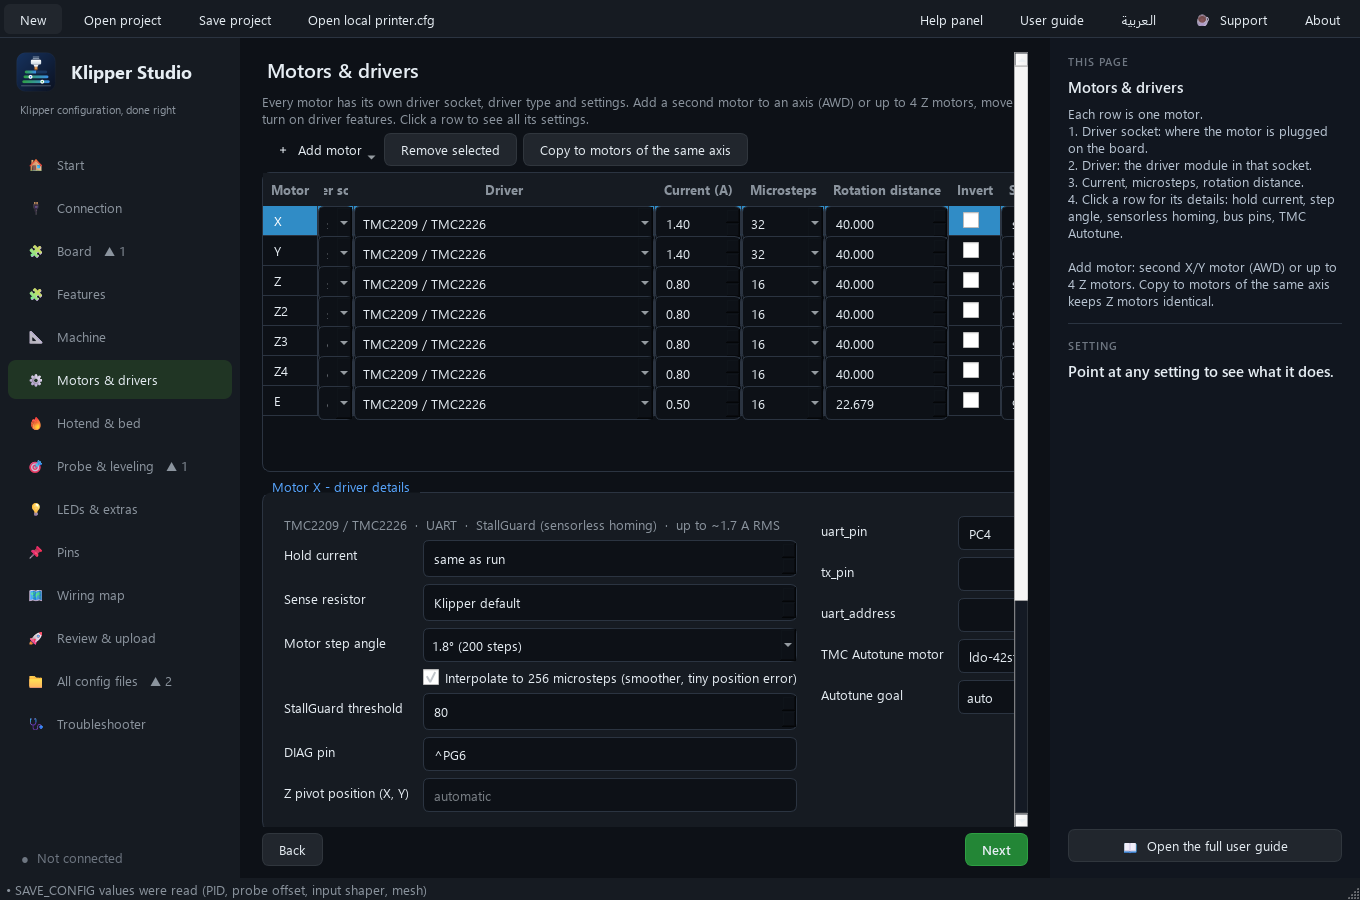
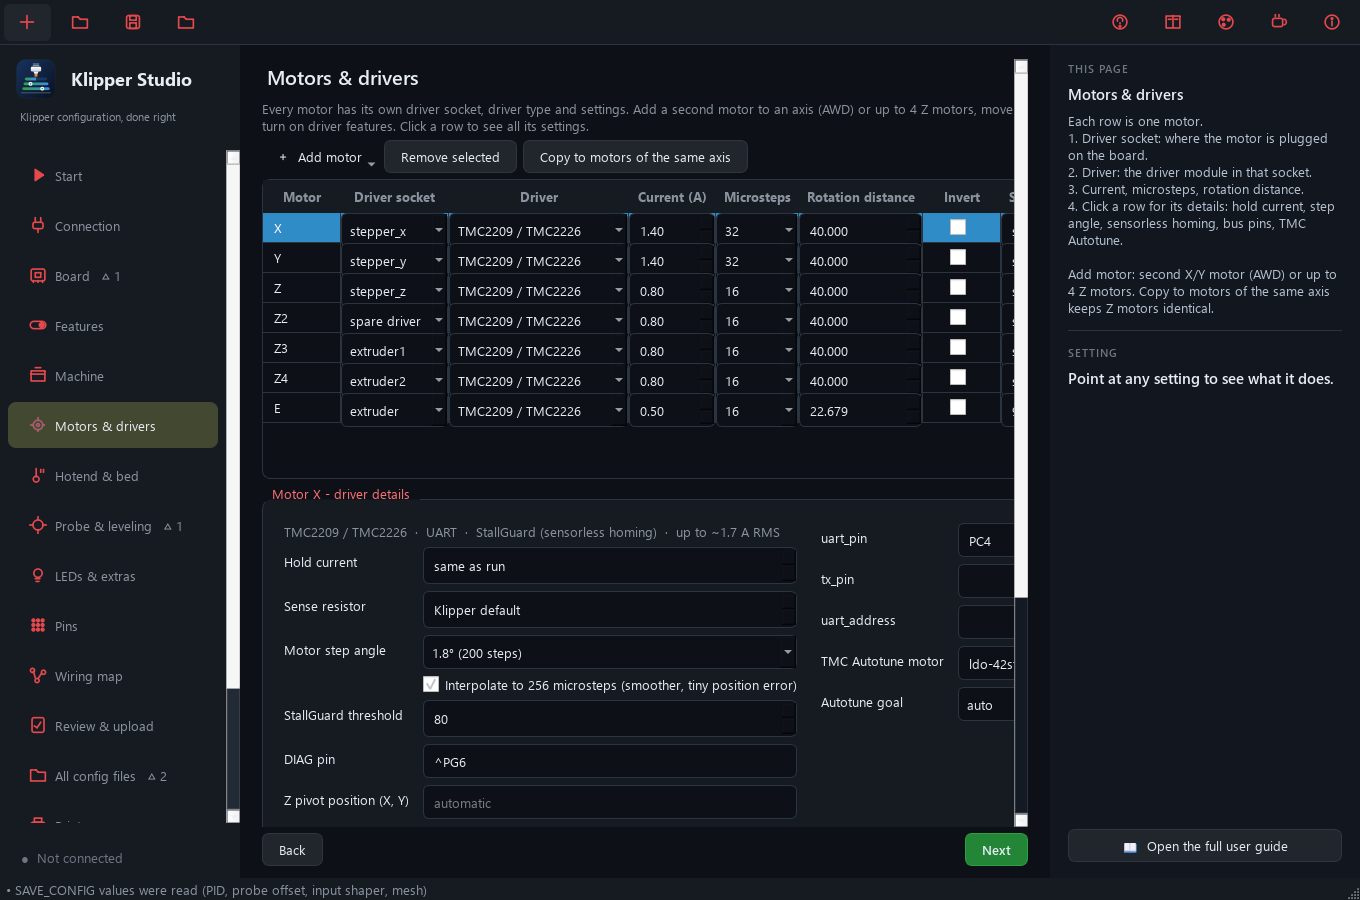
Beta 5: version, changelog, docs, screenshots and demo (#10)
* Beta 5: version, changelog, regenerated guide and screenshots

* Beta 5: Printers screenshot, re-recorded demo with the new theme and the GPL end card

* Keep the screenshot tool's scratch settings out of the repo

diff --git a/tools/demo_video.py b/tools/demo_video.py
@@ -82,9 +82,10 @@ AR = {
     "Uploading is the careful part": "الرفع هو الجزء اللي محتاج حرص",
     "Refused while printing, backed up on the printer and on your PC, FIRMWARE_RESTART, one-click restore.":
         "مرفوض أثناء الطباعة، نسخة احتياطية على الطابعة وعلى جهازك، FIRMWARE_RESTART، واسترجاع بضغطة واحدة.",
-    "Free for personal use": "مجاني للاستخدام الشخصي",
+    "Tested on a real printer": "مجرّب على طابعة حقيقية",
+    "Free software  ·  GPL-3.0": "برنامج حر  ·  GPL-3.0",
     "Windows: download KlipperStudio.exe and double-click": "ويندوز: نزّل KlipperStudio.exe ودوس عليه دبل كليك",
-    "English and Arabic": "بالعربي والإنجليزي",
+    "English and Arabic": "بالإنجليزي",
 }
 
 
@@ -364,8 +365,8 @@ def script(r, win, app):
            sub="Refused while printing, backed up on the printer and on your PC, FIRMWARE_RESTART, one-click restore.",
            seconds=3.4, do=upload, move_to=r.at(win.tabs, 0.5, 0.9))
 
-    r.card("Free for personal use", [REPO_URL, "Windows: download KlipperStudio.exe and double-click",
-                                     "", "%s  ·  %s" % (r.t("English and Arabic"), __version__)], logo=True, seconds=4.0)
+    r.card("Free software  ·  GPL-3.0", [REPO_URL, "Windows: download KlipperStudio.exe and double-click",
+                                     "", "%s  ·  %s" % (r.t("Tested on a real printer"), __version__)], logo=True, seconds=4.0)
 
 
 def encode(gif=False, fps=FPS, suffix=""):

diff --git a/tools/screenshots.py b/tools/screenshots.py
@@ -47,6 +47,14 @@ def main(lang="en"):
     shots = {"page_start": "start", "page_board": "board", "page_features": "features", "page_probe": "probe",
              "page_preview": "review", "page_files": "files"}
 
+    # a small fleet so the Printers page has something to show
+    from studio import printers as _PR
+    _PR.save_printers([_PR.new_printer("Voron 2.4", "192.168.1.21"),
+                       _PR.new_printer("Ender 3 - shelf", "192.168.1.22", remote_path="shelf"),
+                       _PR.new_printer("Test bench", "192.168.1.23", port=7126, ssh_port=2222)])
+    win.fleet = _PR.load_printers()
+    win._fill_printers()
+
     def shot(builder, name):
         win.goto_page(builder)
         if builder == "page_preview":
@@ -98,6 +106,7 @@ def main(lang="en"):
     img.save(path)
     print(path)
 
+    shot("page_printers", "printers")
     win._doctor_show("MCU 'mcu' shutdown: Timer too close\n"
                      "Unable to read tmc uart 'stepper_x' register IFCNT", "klippy.log")
     shot("page_doctor", "doctor")

diff --git a/studio/__init__.py b/studio/__init__.py
@@ -4,7 +4,7 @@ import os
 import sys
 
 APP_NAME = "ATGENX Klipper Studio"
-__version__ = "1.0.0-beta.4"
+__version__ = "1.0.0-beta.5"
 LICENSE_NAME = "GNU GPL v3.0 or later"
 REPO_URL = "https://github.com/ARDUTECH0/ATGENX-Klipper-Studio"
 SUPPORT_URL = "https://buymeacoffee.com/seifemadatv"

diff --git a/CHANGELOG.md b/CHANGELOG.md
@@ -1,11 +1,51 @@
 # Changelog
 
-## Unreleased
+## 1.0.0-beta.5 - 2026-09-18
+
+**Tested on a real printer for the first time** - an SKR 1.4 Turbo running Klipper v0.13.0, backed up first:
+28 checks, none failed. Importing the real 52 KB `printer.cfg` with its includes and `SAVE_CONFIG` rewrote
+**0 lines** when nothing was edited, and all 52 macros and 3,962 comments survived untouched. A real upload
+made its backup on the printer, ran `FIRMWARE_RESTART`, waited for Klipper to come back, and left the file
+byte-identical. A gcode file went up at 1.4 MB/s with live progress and was skipped on the second run.
 
 ### License
-- The project is now **GNU GPL v3.0 or later**, replacing PolyForm Noncommercial. It is free
-  software: use it, change it, share it, sell it - as long as what you pass on stays GPL with
-  its source. This is what was promised to the community when they asked.
+- The project is now **GNU GPL v3.0 or later**, replacing PolyForm Noncommercial. Free software: use it,
+  study it, change it, share it, sell it - as long as what you pass on stays GPL and ships its source.
+  No warranty.
+
+### Printers (new page)
+- Add, edit, remove and reorder your machines. Each one can override the Moonraker port, the SSH port, the
+  API key and the folder its files go into.
+- **Send the same files to every printer at once**, one thread each, with a progress bar, transfer speed and
+  time left per printer, and a colour-coded log of what happened.
+- **Dry run** connects, compares every file and reports what it would send, replace or skip - and writes nothing.
+- Files already on the printer with the same size are skipped, unless you turn that off.
+- **A file that is printing, or waiting in Moonraker's queue, is never overwritten and never deleted.** It is
+  skipped and listed for you to handle yourself.
+
+### Printer files (new page)
+- Browse what is on a printer: folders, sizes, and the thumbnail the slicer embedded in each gcode, pulled
+  from `.thumbs/`. Hover a file to see it bigger.
+- Select several files - or a whole folder - and delete them in one go, with the protected ones refused.
+
+### Look
+- One **accent colour** drives the whole window, with six presets and a colour picker. The default is red.
+- **Every emoji is gone.** The sidebar and toolbar icons are drawn in code, so they follow the accent colour
+  and look the same on every machine, with nothing extra to ship.
+
+### English only
+- The language switch has been removed and the app starts in English. The Arabic strings are still in the
+  code and can be reached with `python -m studio --lang ar`.
+
+### Fixes
+- The wiring map no longer reports a problem for a section that is switched off: a commented-out `[adxl345]`
+  pointing at a commented-out `[mcu pico]` is correct, not an error. Found on a real printer.
+- **Fit to window** centres on the diagram instead of the origin, so devices are no longer cut off.
+- The motors table no longer truncates the driver socket column.
+
+### Testing
+- 55 unit tests and 56 end-to-end checks against a fake Moonraker, plus the live run above.
+- `tests/test_fleet.py` covers the printer list, the sync engine, dry run, and the print-safety rules.
 
 ## 1.0.0-beta.4 - 2026-09-17
 

diff --git a/docs/GUIDE.md b/docs/GUIDE.md
@@ -1,6 +1,6 @@
 # Klipper Studio - User guide
 
-This guide explains every page and every setting of Klipper Studio 1.0.0-beta.4, and walks through the most common tasks. The same explanations appear inside the app in the help panel on the right - point at any setting to read them.
+This guide explains every page and every setting of Klipper Studio 1.0.0-beta.5, and walks through the most common tasks. The same explanations appear inside the app in the help panel on the right - point at any setting to read them.
 
 ## Contents
 
@@ -287,6 +287,26 @@ Smart merge keeps your file and changes only what's needed. Clean new file rewri
 ### All config files
 
 All files of the printer. Click a file or a section in the tree, edit, then Save to printer. A backup is made first and only the matching service restarts (Klipper for .cfg, Moonraker for moonraker.conf...).
+
+### Printers
+
+Your printers, and sending the same files to all of them at once.  
+1. Add printer: name, address, and - if they are not the usual ones - the Moonraker port, the SSH port and the folder its files go into.  
+2. Tick the printers you want, add files or a whole folder, and press Sync.  
+3. Each printer gets its own progress bar with speed and time left, and the log says what happened.  
+  
+Dry run does everything except write. A file that is printing or waiting in the queue is never overwritten - it is skipped and listed for you.
+
+| Setting | What it does | In printer.cfg |
+|---|---|---|
+| **fleet.dry_run** | Runs the whole sync without writing anything: it connects, compares every file and tells you what it would send, replace or skip. Use it the first time you point the app at a printer you care about. |  |
+| **fleet.skip_same** | A file already on the printer with exactly the same size is left alone. Turn this off to send everything again, for example after re-slicing with the same file names. |  |
+
+### Printer files
+
+What is on a printer right now. Double-click a folder to open it, hover a file to see the thumbnail the slicer put in it, and select files to delete them.  
+  
+Anything printing or queued is marked and cannot be deleted.
 
 ### Troubleshooter
 

diff --git a/docs/GUIDE.ar.md b/docs/GUIDE.ar.md
@@ -2,7 +2,7 @@
 
 # Klipper Studio - دليل الاستخدام
 
-الدليل ده بيشرح كل صفحة وكل إعداد في Klipper Studio 1.0.0-beta.4، وبيمشي معاك خطوة بخطوة في أشهر المهام. نفس الشرح موجود جوه البرنامج في لوحة الشرح على اليمين - قف بالماوس على أي إعداد عشان تقراه.
+الدليل ده بيشرح كل صفحة وكل إعداد في Klipper Studio 1.0.0-beta.5، وبيمشي معاك خطوة بخطوة في أشهر المهام. نفس الشرح موجود جوه البرنامج في لوحة الشرح على اليمين - قف بالماوس على أي إعداد عشان تقراه.
 
 ## المحتويات
 
@@ -289,6 +289,19 @@ python -m studio --lang ar
 ### كل ملفات الإعداد
 
 كل ملفات الطابعة. اضغط على ملف أو قسم في الشجرة، عدّل، وبعدين «حفظ على الطابعة». بيتعمل نسخة احتياطية الأول وبيتعمل إعادة تشغيل للخدمة المناسبة بس (كليبر لملفات .cfg، و Moonraker لـ moonraker.conf...).
+
+### Printers
+
+طابعاتك، وإرسال نفس الملفات لكلها في نفس الوقت. جرب Dry run الأول.
+
+| الإعداد | بيعمل إيه | في printer.cfg |
+|---|---|---|
+| **fleet.dry_run** | بيشغل العملية كلها من غير ما يكتب حاجة: بيتصل ويقارن كل ملف ويقولك هيبعت إيه. |  |
+| **fleet.skip_same** | الملف الموجود على الطابعة بنفس الحجم بيتساب زي ما هو. اقفلها عشان يبعت كل حاجة تاني. |  |
+
+### Printer files
+
+اللي موجود على الطابعة دلوقتي. اللي بيتطبع محمي.
 
 ### حل المشاكل
 
